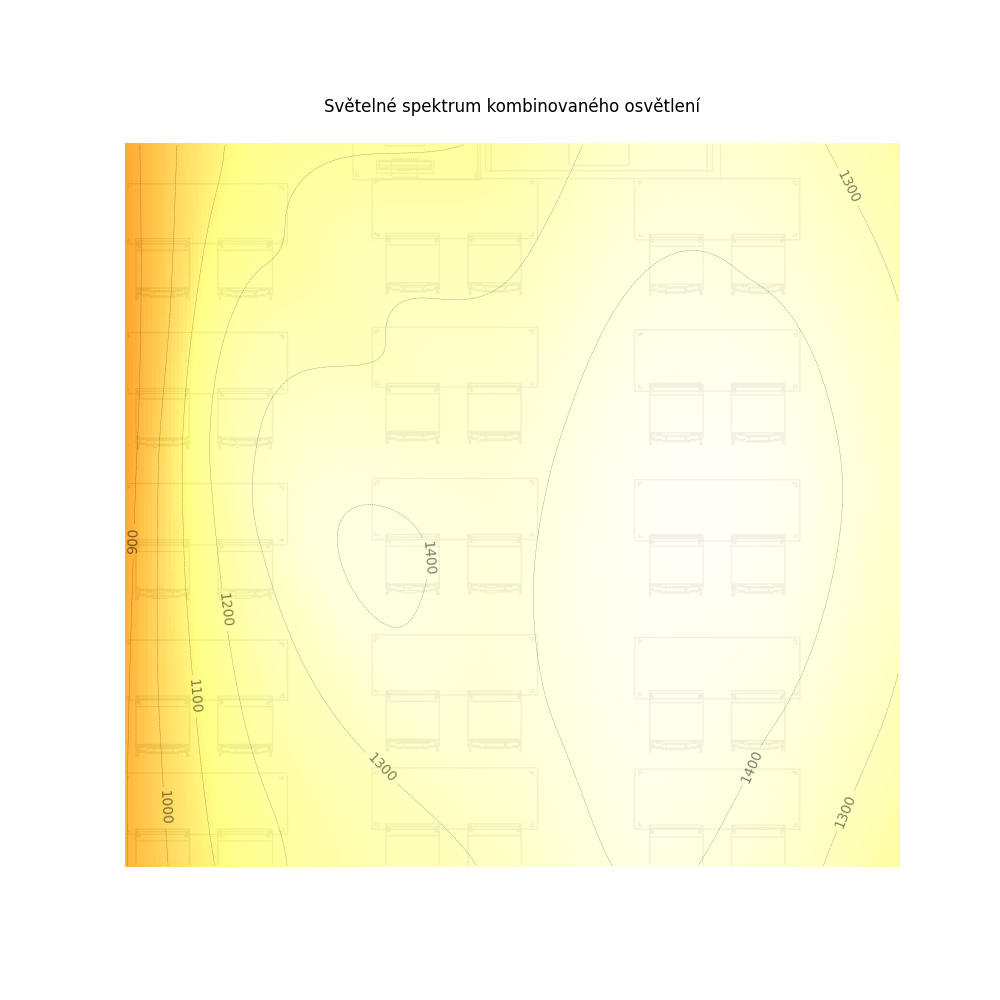
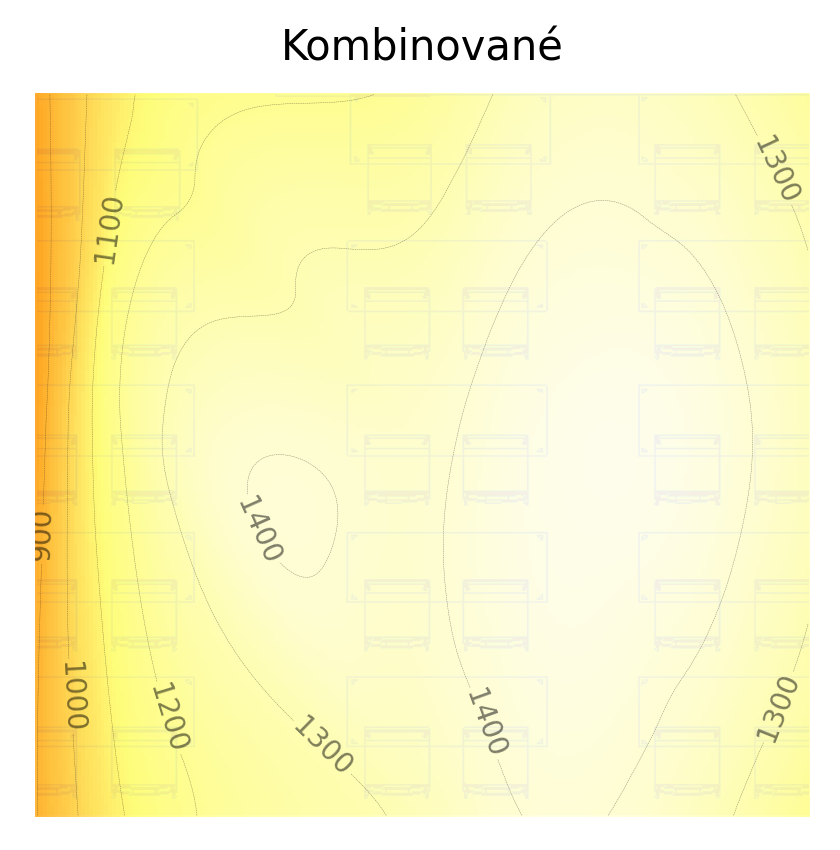
obrazky

diff --git a/02_Prakticka/060_Simulace.tex b/02_Prakticka/060_Simulace.tex
@@ -34,15 +34,20 @@ energetické účinnosti, oslnění atd.
 \caption/f 3D model v~DIALuxu
 \medskip
 
+Ze začátku bylo zapotřebí připravit simulaci. Byl vybrány typ místnosti: Třída - obecné činnosti, kde jsou nastaveny parametry dle normy
+a nelze je měnit. Po nastavení byl nakreslen půdorys z naměřených parametrů učebny. Poté byl vytvořen 3D model a zvoleny materiály
+a barvy, aby se model co nejvíce přiblížil realitě.  Do 3D modelu byly vložena LED svítidla od Spektral.... s parametry (viz. Příloha)
+
+Ze začatku byl ozkoušen model změněných parametrů, ale luxů bylo příliš mnoho - poté bylo podle výsledků z měření nastaveny parametry 
  
 
-\noindent Byly provedeny tři simulace pro navržené scény - Výklad, Písemka a~Denní světlo
+% \noindent Byly provedeny tři simulace pro navržené scény - Výklad, Písemka a~Denní světlo
 
-Cílem je vytvořit optimální osvětlené prostředí pro studenty s ohledem na jejich vizuální pohodlí, soustředění a produktivitu.
+% Cílem je vytvořit optimální osvětlené prostředí pro studenty s ohledem na jejich vizuální pohodlí, soustředění a produktivitu.
 
-\noindent {\sbf Nastavení simulace:}
+% \noindent {\sbf Nastavení simulace:}
 
-- v nastavení byl vybrán typ místnosti: Třída - obecné činnosti
+% - v nastavení byl vybrán typ místnosti: Třída - obecné činnosti
 
 - obrázek
 % - u výkladu byla zvolena jen světla nepřímá a~aby bylo požadováno 300-500lx
@@ -96,7 +101,7 @@ Cílem je vytvořit optimální osvětlené prostředí pro studenty s ohledem n
 \caption/f Písemka2
 \medskip
 
-\sec Simula - Denní světlo
+\sec Simulace - Denní světlo
 
 \begitems 
 * Zvolený typ osvětlení: kombinace denního a umělého osvětlení
@@ -132,7 +137,7 @@ Cílem je vytvořit optimální osvětlené prostředí pro studenty s ohledem n
 % \caption/f Strop
 % \medskip
 
-\sec Shrnutí
+\secc Shrnutí
 
 Návrh osvětlení učebny v DIALuxu umožňuje vytvořit optimální osvětlené prostředí pro studenty s ohledem na jejich
 vizuální pohodlí, soustředění a produktivitu. Důležité je zvážit specifické potřeby pro každou scénu
@@ -144,3 +149,17 @@ Další tipy:
 Při navrhování osvětlení učebny je důležité dodržovat platné normy a předpisy.
 Doporučuje se zapojit do procesu návrhu osvětlení pedagogy a studenty, aby se zohlednily jejich specifické potřeby a preference.
 Je důležité pravidelně kontrolovat a udržovat osvětlovací systém, aby se zajistila jeho optimální funkce.
+
+
+% Uvidim jestli dam shrnuti do tabulky???
+% \medskip
+% \midinsert \clabel[vysl_sim]{Výsledky ze simulace}
+% \ctable{lccc}{
+% %\hfil Spektrum & Vlnová délka \crl \tskip 4pt
+% {\sbf Typ scény}  &    {\sbf Max} [lx] & {\sbf Min} [lx]  &   {\sbf Rovnoměrnost} [-]   \cr
+% Kombinované       &     796       &   350       &       0.4         \cr
+% Přímé             &     505       &   233       &       0.5         \cr
+% Nepřímé           &     291       &   117       &       0.4         \cr
+% }
+% \caption/t Výsledky ze simulace
+% \endinsert

diff --git a/02_Prakticka/040_Treti_Mereni.tex b/02_Prakticka/040_Treti_Mereni.tex
@@ -49,17 +49,17 @@ Z hodnot isofotů je patrné, že osvětlenost je nejnižší u~oken a~nejvyšš
 \secc Výsledky měření
 
 \medskip \clabel[svet_mapa]{Světelné mapy kombinovaného osvětlení}
-\picw=18cm \cinspic 04_Grafy/03_mereni/kombinovane.png
+\picw=18cm \cinspic 04_Grafy/03_mereni/x_kombi.png
 \caption/f Světelné mapy kombinovaného osvětlení - okno, střed, dveře
 \medskip
 
 \medskip \clabel[svet_mapa2]{Světelné mapy nepřímého osvětlení}
-\picw=18cm \cinspic 04_Grafy/03_mereni/neprime.png
+\picw=18cm \cinspic 04_Grafy/03_mereni/x_horni.png
 \caption/f Světelné mapy nepřímého osvětlení - okno, střed, dveře
 \medskip
 
 \medskip \clabel[svet_mapa3]{Světelné mapy přímého osvětlení}
-\picw=18cm \cinspic 04_Grafy/03_mereni/prime.png
+\picw=18cm \cinspic 04_Grafy/03_mereni/x_dolni.png
 \caption/f Světelné mapy přímého osvětlení - okno, střed, dveře
 \medskip
 

diff --git a/02_Prakticka/070_Zapojeni_DALI.tex b/02_Prakticka/070_Zapojeni_DALI.tex
@@ -357,7 +357,13 @@ Jako vývojové prostředí pro programování řídící jednotky bylo testová
     * {\sbf set min level (85):} Nastaví minimální dosažitelný jas.
         Hodnota 85 přibližně odpovídá {34~\pcent} maximálně dosažitelného jasu.
     * {\sbf set fade time:} Nastaví čas plynulého rozsvícení/zhasnutí při změně jasu.
+
+    $$ 2^{({fade_{time} \over 2} -1)} \eqmark $$
+
     * {\sbf set rate time:} Nastaví rychlost plynulé změny jasu na požadovanou úroveň.
+
+    $$ Fade rate = {506 \over {2^{({fade_{rate} \over 2})}}} \eqmark $$
+
 \enditems
 
 
